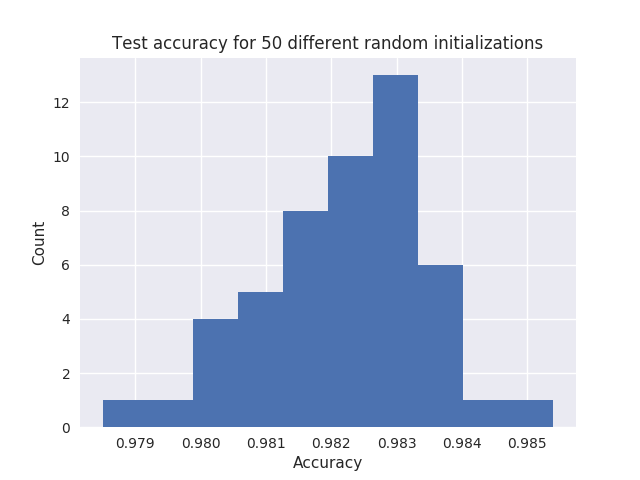
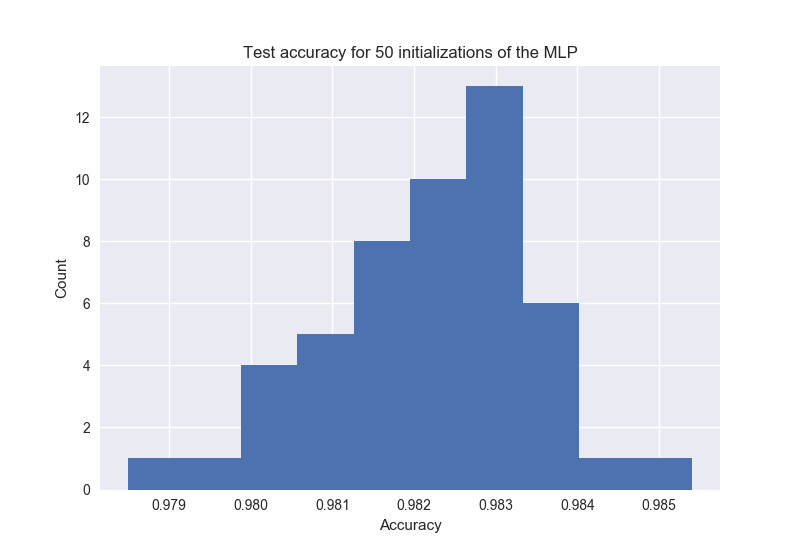
figures task1 done

diff --git a/assignment2/lstm_text_generation.py b/assignment2/lstm_text_generation.py
@@ -1,0 +1,108 @@
+'''Example script to generate text from Nietzsche's writings.
+At least 20 epochs are required before the generated text
+starts sounding coherent.
+It is recommended to run this script on GPU, as recurrent
+networks are quite computationally intensive.
+If you try this script on new data, make sure your corpus
+has at least ~100k characters. ~1M is better.
+'''
+
+from __future__ import print_function
+from keras.callbacks import LambdaCallback
+from keras.models import Sequential
+from keras.layers import Dense, Activation
+from keras.layers import LSTM
+from keras.optimizers import RMSprop
+from keras.utils.data_utils import get_file
+import numpy as np
+import random
+import sys
+import io
+
+path = get_file('nietzsche.txt', origin='https://s3.amazonaws.com/text-datasets/nietzsche.txt')
+with io.open(path, encoding='utf-8') as f:
+    text = f.read().lower()
+print('corpus length:', len(text))
+
+chars = sorted(list(set(text)))
+print('total chars:', len(chars))
+char_indices = dict((c, i) for i, c in enumerate(chars))
+indices_char = dict((i, c) for i, c in enumerate(chars))
+
+# cut the text in semi-redundant sequences of maxlen characters
+maxlen = 40
+step = 3
+sentences = []
+next_chars = []
+for i in range(0, len(text) - maxlen, step):
+    sentences.append(text[i: i + maxlen])
+    next_chars.append(text[i + maxlen])
+print('nb sequences:', len(sentences))
+
+print('Vectorization...')
+x = np.zeros((len(sentences), maxlen, len(chars)), dtype=np.bool)
+y = np.zeros((len(sentences), len(chars)), dtype=np.bool)
+for i, sentence in enumerate(sentences):
+    for t, char in enumerate(sentence):
+        x[i, t, char_indices[char]] = 1
+    y[i, char_indices[next_chars[i]]] = 1
+
+
+# build the model: a single LSTM
+print('Build model...')
+model = Sequential()
+model.add(LSTM(128, input_shape=(maxlen, len(chars))))
+model.add(Dense(len(chars)))
+model.add(Activation('softmax'))
+
+optimizer = RMSprop(lr=0.01)
+model.compile(loss='categorical_crossentropy', optimizer=optimizer)
+
+
+def sample(preds, temperature=1.0):
+    # helper function to sample an index from a probability array
+    preds = np.asarray(preds).astype('float64')
+    preds = np.log(preds) / temperature
+    exp_preds = np.exp(preds)
+    preds = exp_preds / np.sum(exp_preds)
+    probas = np.random.multinomial(1, preds, 1)
+    return np.argmax(probas)
+
+
+def on_epoch_end(epoch, logs):
+    # Function invoked at end of each epoch. Prints generated text.
+    print()
+    print('----- Generating text after Epoch: %d' % epoch)
+
+    start_index = random.randint(0, len(text) - maxlen - 1)
+    for diversity in [0.2, 0.5, 1.0, 1.2]:
+        print('----- diversity:', diversity)
+
+        generated = ''
+        sentence = text[start_index: start_index + maxlen]
+        generated += sentence
+        print('----- Generating with seed: "' + sentence + '"')
+        sys.stdout.write(generated)
+
+        for i in range(400):
+            x_pred = np.zeros((1, maxlen, len(chars)))
+            for t, char in enumerate(sentence):
+                x_pred[0, t, char_indices[char]] = 1.
+
+            preds = model.predict(x_pred, verbose=0)[0]
+            next_index = sample(preds, diversity)
+            next_char = indices_char[next_index]
+
+            generated += next_char
+            sentence = sentence[1:] + next_char
+
+            sys.stdout.write(next_char)
+            sys.stdout.flush()
+        print()
+
+print_callback = LambdaCallback(on_epoch_end=on_epoch_end)
+
+model.fit(x, y,
+          batch_size=128,
+          epochs=60,
+          callbacks=[print_callback])

diff --git a/assignment2/figures.py b/assignment2/figures.py
@@ -1,25 +1,35 @@
 
-
 import numpy as np 
 from matplotlib import pyplot as plt
 import seaborn as sns
 sns.set()
 
-def test_set_MLP_default():
+def plot_test_acc(testacc,Title):
 	"""
 	Plots the test accuracy (or loss) for the default settings of the MNIST_mlp 
 	as is on the KERAS git.
 	"""
 
-	testloss = np.load('./test_loss_MLP_default.npy')
-	testacc = np.load('./test_accuracy_MLP_default.npy')
-
 	print ('Mean accuracy %4f, standard deviation: %4f' %(np.mean(testacc),np.std(testacc))) 
 
-	plt.title('Test accuracy for 50 different random initializations')
+	plt.title('Test accuracy for 50 initializations of the ' + Title)
 	plt.hist(testacc)
 	plt.xlabel('Accuracy')
 	plt.ylabel('Count')
-	plt.show()
+	# plt.show()
+	plt.savefig('./figures/'+Title+'accuracy.png')
+	plt.close()
 
-test_set_MLP_default()
+
+# testacc = np.load('./results/test_accuracy_MLP_default.npy')
+# plot_test_acc(testacc,'MLP')
+
+testacc = np.load('./results/test_accuracy_CNN_default.npy')
+plot_test_acc(testacc,'CNN')
+
+testacc = np.load('./results/test_accuracy_CNN_permute.npy')
+plot_test_acc(testacc,'CNN_permuted')
+
+testacc = np.load('./results/test_accuracy_MLP_default_permute.npy')
+plot_test_acc(testacc,'MLP_permuted')
+
